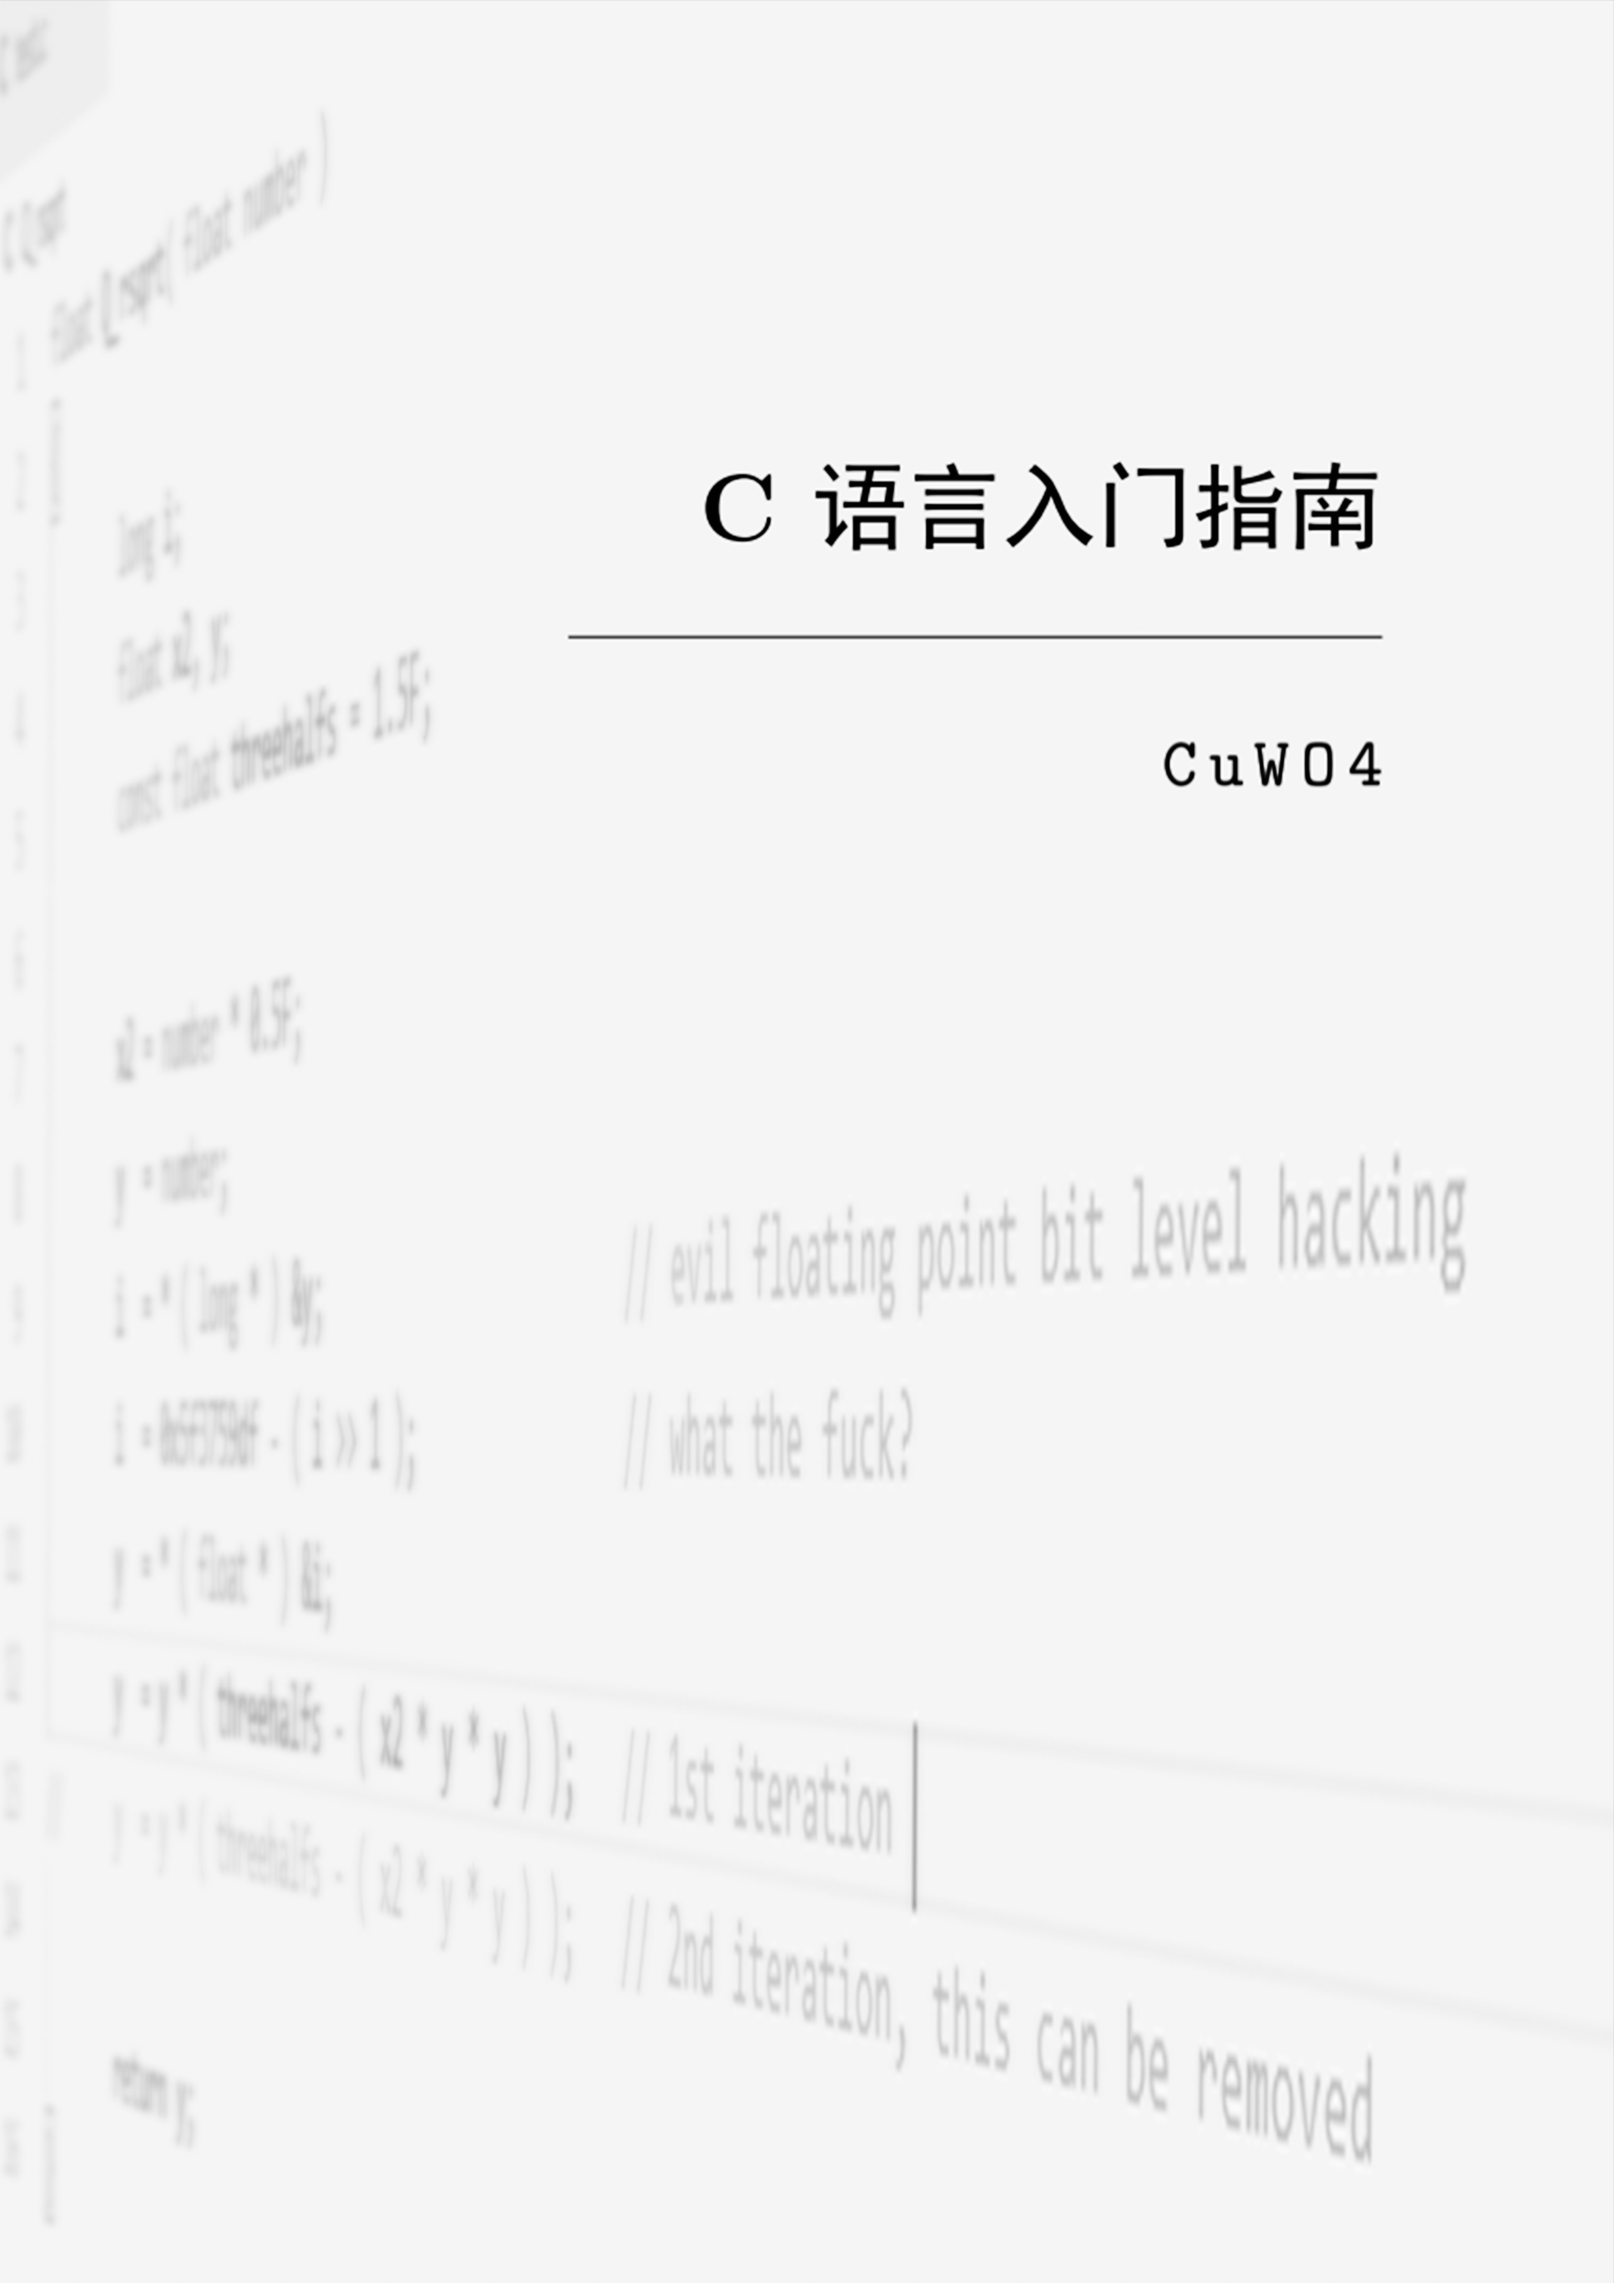
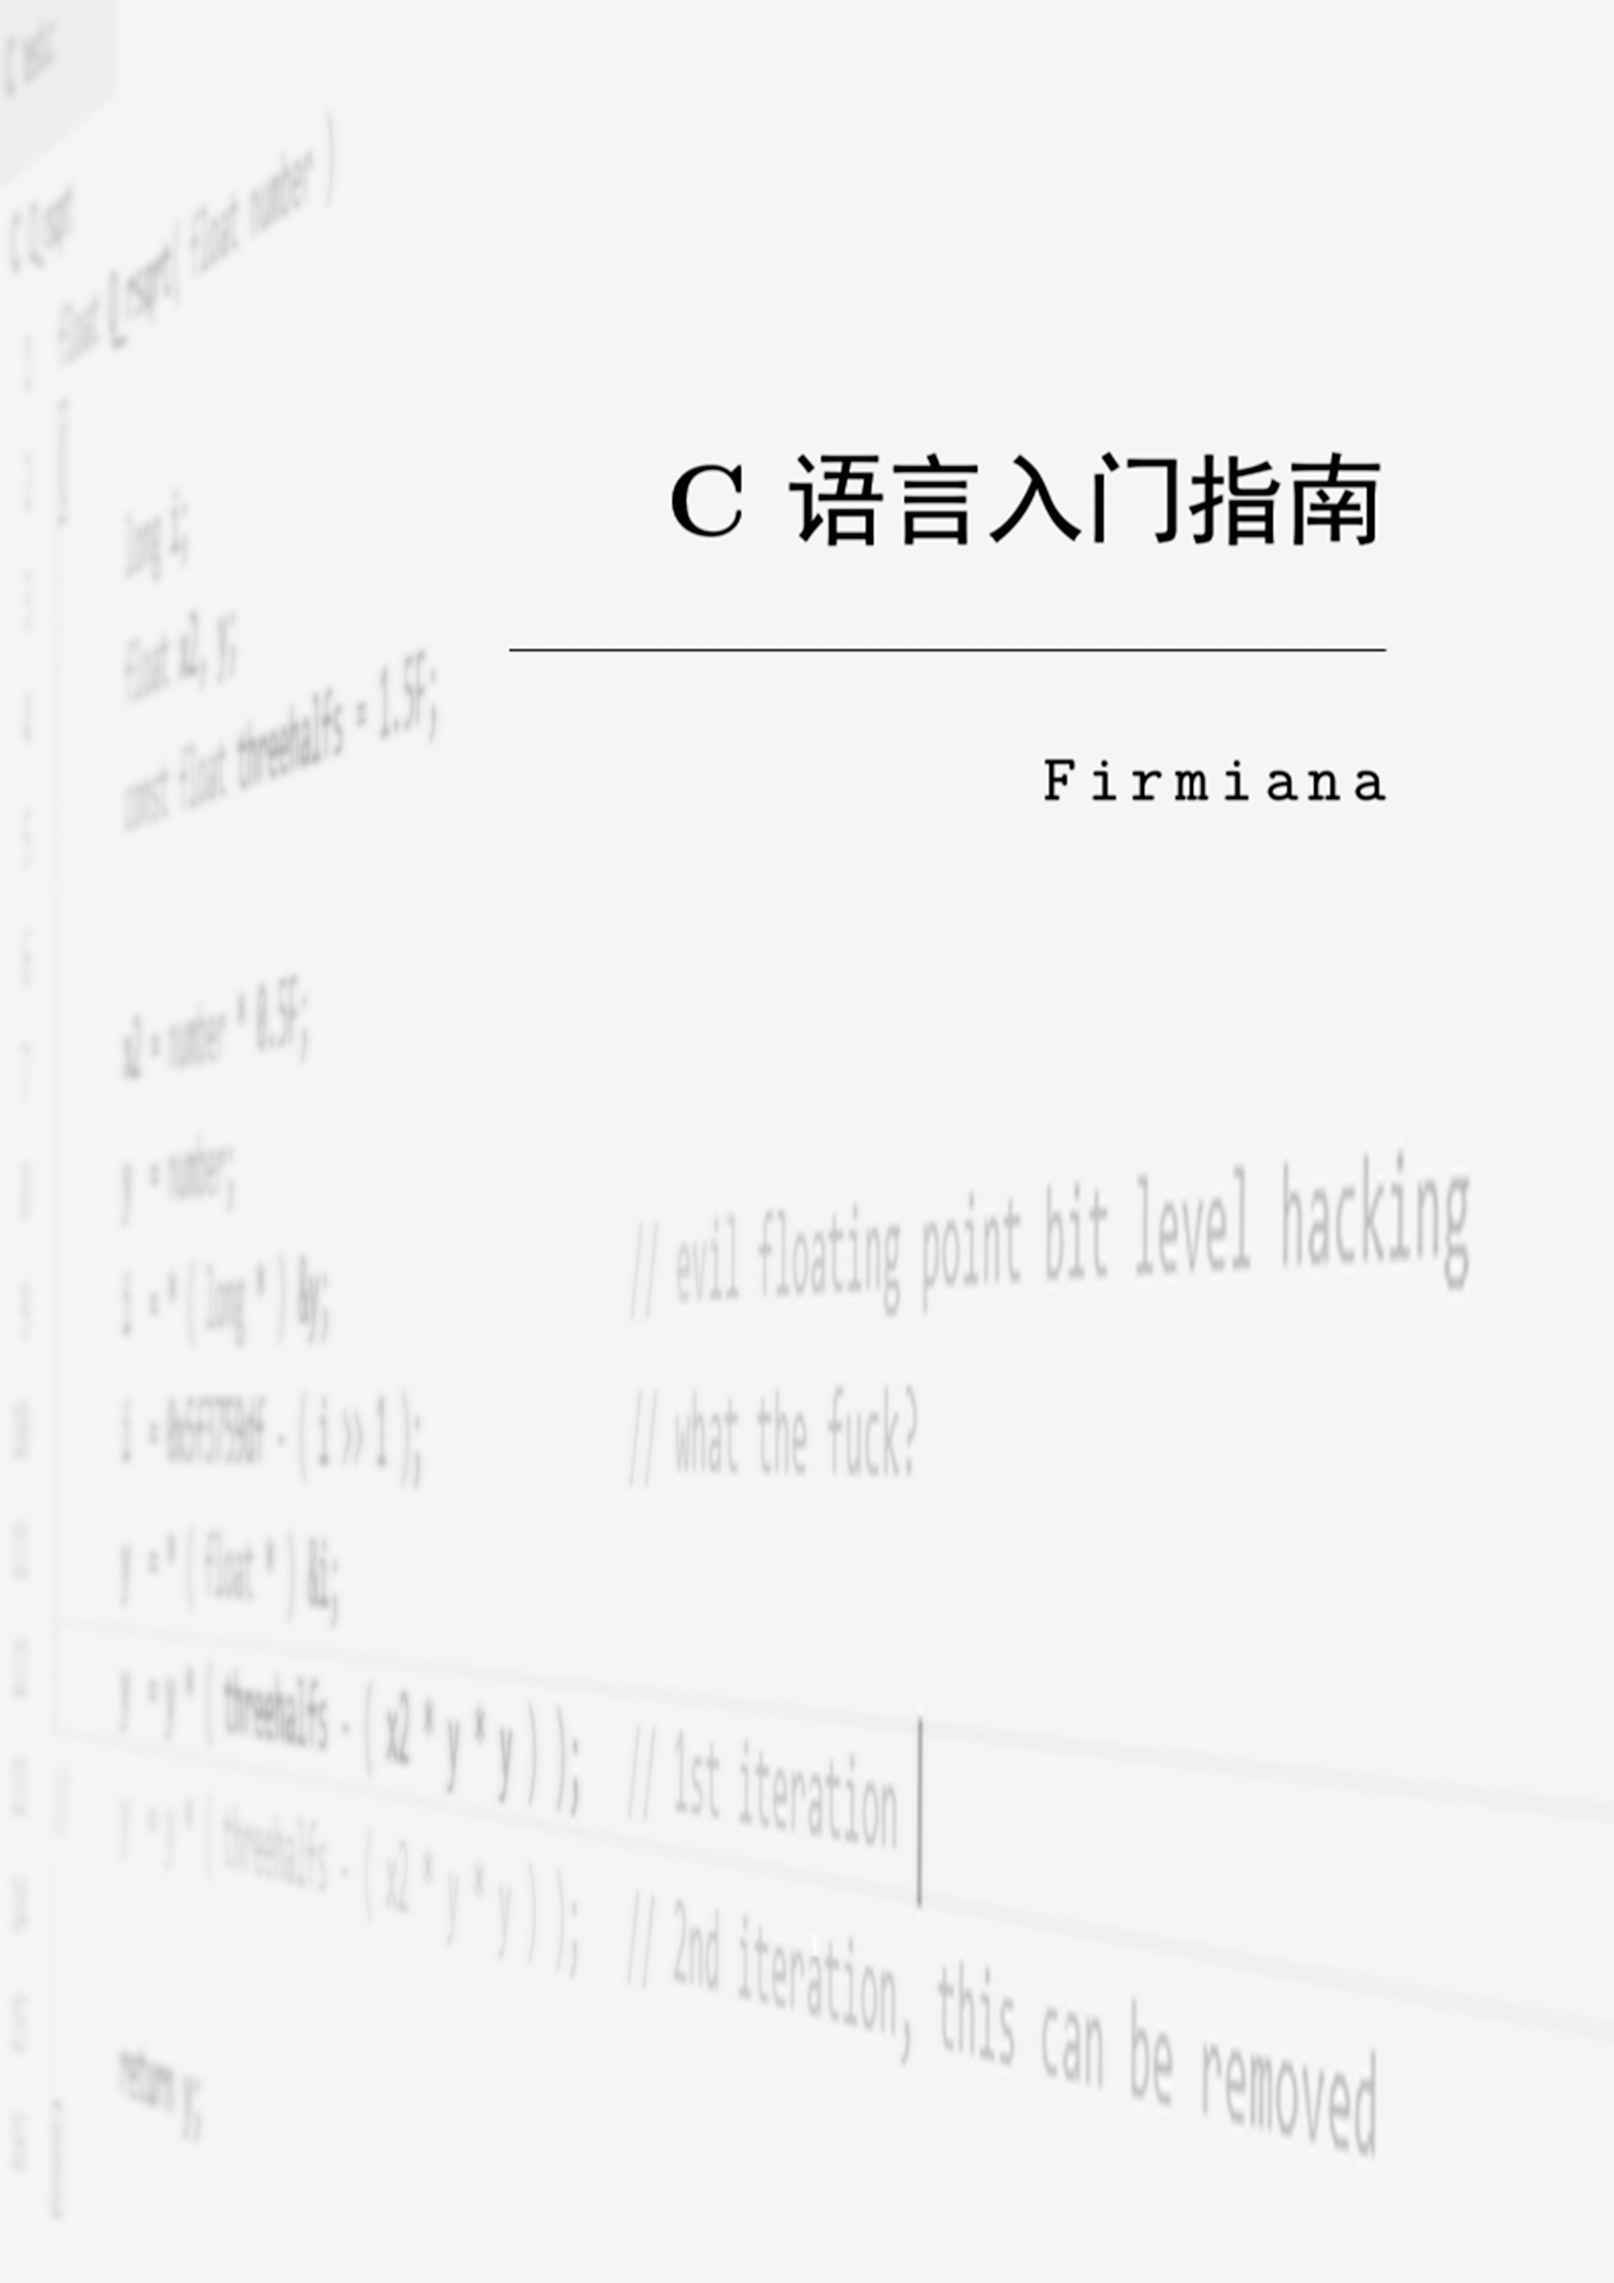
封面:     调整了对比度, 使背景中的代码更显眼了.     更换了署名.     新增了cover.tex文件用于编译封面雏形.

diff --git a/pic/cover/cover.tex b/pic/cover/cover.tex
@@ -1,0 +1,19 @@
+\documentclass[12pt, a4paper]{article}
+\usepackage{ctex}
+\usepackage{float}
+\usepackage{color}
+\usepackage{wallpaper}
+\usepackage{geometry}
+\geometry{right=3cm}
+
+\definecolor{Ivory}{RGB}{255,255,240}
+
+\begin{document}
+    \ThisCenterWallPaper{1}{wallpaper-black.png}
+    \phantom{a}\\[2em]
+    \begin{flushright}
+        {\heiti \fontsize{37pt}{\baselineskip}\selectfont \textbf{\textcolor{Ivory}{C语言入门指南}}} \\[2em]
+        \textcolor{Ivory}{\rule{27em}{0.5pt}} \\[3em]
+        {\fontsize{24pt}{\baselineskip}\selectfont \textcolor{Ivory}{\texttt{F\,i\,r\,m\,i\,a\,n\,a}}}
+    \end{flushright}
+\end{document}
